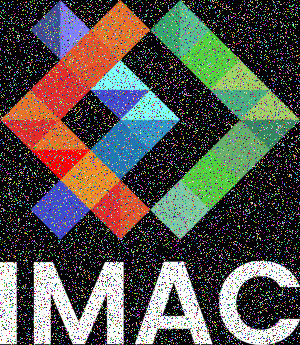
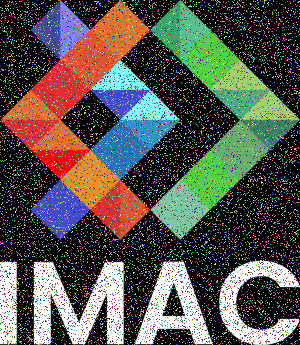
exo 15

diff --git a/src/main.cpp b/src/main.cpp
@@ -227,6 +227,29 @@ void rosace(sil::Image &image)
     }
 }
 
+void glitch(sil::Image &image)
+{
+    for (int k = 0; k < 20; k++)
+    {
+        int rectangle_width = random_int(20, 50);
+        int rectangle_height = random_int(5, 10);
+
+        int x = random_int(0, image.width() - (rectangle_width + 1));
+        int y = random_int(0, image.height() - (rectangle_height + 1));
+
+        int other_x = random_int(0, image.width() - (rectangle_width + 1));
+        int other_y = random_int(0, image.height() - (rectangle_height + 1));
+
+        for (int i = 0; i < rectangle_width; i++)
+        {
+            for (int j = 0; j < rectangle_height; j++)
+            {
+                std::swap(image.pixel(x + i, y + j), image.pixel(other_x + i, other_y + j));
+            }
+        }
+    }
+}
+
 int main()
 {
     {
@@ -310,5 +333,11 @@ int main()
         sil::Image image{"output/circle.png"};
         rosace(image);
         image.save("output/rosace.png");
+    }
+
+    {
+        sil::Image image{"images/logo.png"};
+        glitch(image);
+        image.save("output/glitch.png");
     }
 }

diff --git a/README.md b/README.md
@@ -55,3 +55,8 @@ Le point sur lequel j’ai bloqué est que je n’avais pas pensé à faire une 
 J’ai cherché comment passer de coordonnées polaires (angle et rayon) à des coordonnées cartésiennes (x et y), ce qui m’a permis d’utiliser `x = r × cos(θ) et y = r × sin(θ)` pour placer les centres des cercles et calculer la distance. J’ai aussi dû faire attention à ne pas effacer les cercles déjà tracés avec un else qui remet en noir, à répartir les angles sur 360° (60° pour 6 cercles), et à bien gérer les conversions `int` et `float` pour éviter les erreurs de compilation.
 
 ![alt text](output/rosace.png)
+
+## Glitch
+J’ai rencontré plusieurs difficultés pour cet effet, notamment dans la génération des coordonnées aléatoires et la gestion des limites de l’image, ce qui provoquait des dépassements de pixels et des erreurs lors de l’exécution du programme.
+
+![alt text](output/glitch.png)
